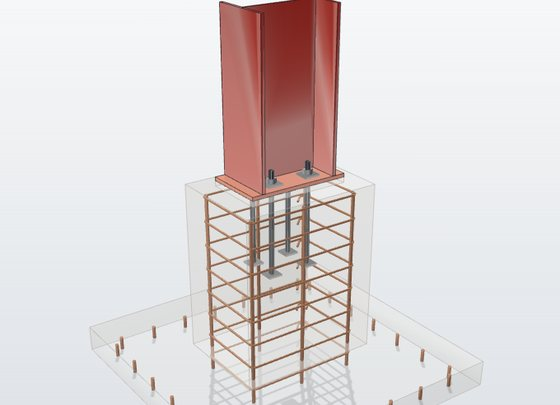
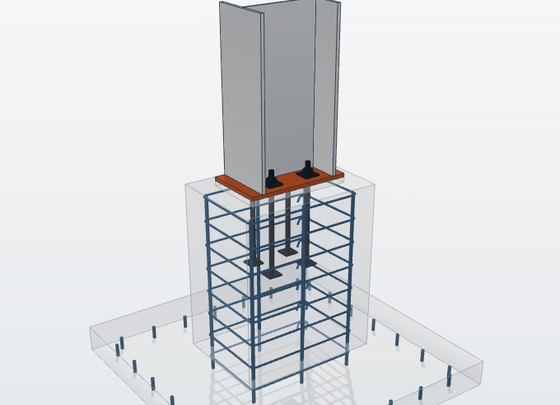
Connection explorer: conceptual style

diff --git a/projects/steel-warehouse.html b/projects/steel-warehouse.html
@@ -48,7 +48,7 @@
 .cv-head h3{margin:0;font-size:1.05rem}
 .cv-x{border:0;background:none;font-size:1.6rem;line-height:1;cursor:pointer;color:var(--ink-2)}
 .cv-body{display:grid;grid-template-columns:1.7fr 1fr;gap:0}
-.cv-stage{position:relative;aspect-ratio:4/3;background:#eceff2;touch-action:none}
+.cv-stage{position:relative;aspect-ratio:4/3;background:#eef0f2;touch-action:none}
 .cv-stage canvas{position:absolute;inset:0;width:100%;height:100%;display:block;cursor:grab}
 .cv-msg{position:absolute;left:12px;bottom:10px;font:500 .76rem "IBM Plex Mono",monospace;color:#4a5866;background:rgba(255,255,255,.85);padding:4px 8px;border-radius:4px}
 .cv-info{padding:16px 18px;font-size:.88rem;overflow:auto}
@@ -126,16 +126,16 @@
       <ul><li>The shear lugs at the side columns now run across the frame, so they bear against the concrete in the direction of the 84 kN frame shear.</li><li>The splice end plates stand 10 mm proud of the flush flange, so the sloped flange is fully cut and welded to the plate.</li><li>The purlin cleats on the two gable frames have 4 bolts instead of 2. Two columns of bolts let the joint resist rotation on its own.</li><li>The pedestal ties continue down through the footing to just above the bottom mesh, holding the starter bars in place.</li></ul>
       <p class="hint">Select a connection to open it in 3D. Drag to rotate, scroll or pinch to zoom.</p>
       <div class="conns" id="conns">
-        <button type="button" class="conn" data-k="knee"><img src="img/conn/knee.jpg?v=2" alt="" width="560" height="405" loading="lazy"><span class="ct">Eave knee</span><span class="cd">Bolted end plate, 12 × M24</span><span class="cr">Max ratio 0.80</span></button>
-        <button type="button" class="conn" data-k="ridge"><img src="img/conn/ridge.jpg?v=2" alt="" width="560" height="405" loading="lazy"><span class="ct">Ridge and column cap</span><span class="cd">Extended end plates, 10 × M30</span><span class="cr">Max ratio 0.68</span></button>
-        <button type="button" class="conn" data-k="splice607"><img src="img/conn/splice607.jpg?v=2" alt="" width="560" height="405" loading="lazy"><span class="ct">Rafter splice at 6.07 m</span><span class="cd">Extended end plates, 8 × M24</span><span class="cr">Max ratio 0.36</span></button>
-        <button type="button" class="conn" data-k="splice1607"><img src="img/conn/splice1607.jpg?v=2" alt="" width="560" height="405" loading="lazy"><span class="ct">Rafter splice at 16.07 m</span><span class="cd">Extended end plates, 8 × M24</span><span class="cr">Max ratio 0.24</span></button>
-        <button type="button" class="conn" data-k="base_side"><img src="img/conn/base_side.jpg?v=2" alt="" width="560" height="405" loading="lazy"><span class="ct">Side column base</span><span class="cd">Shear lug across the frame</span><span class="cr">Max ratio 0.75</span></button>
-        <button type="button" class="conn" data-k="base_central"><img src="img/conn/base_central.jpg?v=2" alt="" width="560" height="405" loading="lazy"><span class="ct">Central column base</span><span class="cd">4 anchor rods, no uplift</span><span class="cr">Max ratio 0.10</span></button>
-        <button type="button" class="conn" data-k="base_gable"><img src="img/conn/base_gable.jpg?v=2" alt="" width="560" height="405" loading="lazy"><span class="ct">Gable column base</span><span class="cd">Shear on the anchor rods</span><span class="cr">Max ratio 0.65</span></button>
-        <button type="button" class="conn" data-k="purlin"><img src="img/conn/purlin.jpg?v=2" alt="" width="560" height="405" loading="lazy"><span class="ct">Purlin cleat, interior</span><span class="cd">Stiffened cleat, 2 × M16</span><span class="cr">Max ratio 0.41</span></button>
-        <button type="button" class="conn" data-k="purlin_gable"><img src="img/conn/purlin_gable.jpg?v=2" alt="" width="560" height="405" loading="lazy"><span class="ct">Purlin cleat, gable end</span><span class="cd">Stiffened cleat, 4 × M16</span><span class="cr">Max ratio 0.39</span></button>
-        <button type="button" class="conn" data-k="bracing"><img src="img/conn/bracing.jpg?v=2" alt="" width="560" height="405" loading="lazy"><span class="ct">Roof bracing</span><span class="cd">10 mm gusset, 2 × M20</span><span class="cr">Max ratio 0.10</span></button>
+        <button type="button" class="conn" data-k="knee"><img src="img/conn/knee.jpg?v=3" alt="" width="560" height="405" loading="lazy"><span class="ct">Eave knee</span><span class="cd">Bolted end plate, 12 × M24</span><span class="cr">Max ratio 0.80</span></button>
+        <button type="button" class="conn" data-k="ridge"><img src="img/conn/ridge.jpg?v=3" alt="" width="560" height="405" loading="lazy"><span class="ct">Ridge and column cap</span><span class="cd">Extended end plates, 10 × M30</span><span class="cr">Max ratio 0.68</span></button>
+        <button type="button" class="conn" data-k="splice607"><img src="img/conn/splice607.jpg?v=3" alt="" width="560" height="405" loading="lazy"><span class="ct">Rafter splice at 6.07 m</span><span class="cd">Extended end plates, 8 × M24</span><span class="cr">Max ratio 0.36</span></button>
+        <button type="button" class="conn" data-k="splice1607"><img src="img/conn/splice1607.jpg?v=3" alt="" width="560" height="405" loading="lazy"><span class="ct">Rafter splice at 16.07 m</span><span class="cd">Extended end plates, 8 × M24</span><span class="cr">Max ratio 0.24</span></button>
+        <button type="button" class="conn" data-k="base_side"><img src="img/conn/base_side.jpg?v=3" alt="" width="560" height="405" loading="lazy"><span class="ct">Side column base</span><span class="cd">Shear lug across the frame</span><span class="cr">Max ratio 0.75</span></button>
+        <button type="button" class="conn" data-k="base_central"><img src="img/conn/base_central.jpg?v=3" alt="" width="560" height="405" loading="lazy"><span class="ct">Central column base</span><span class="cd">4 anchor rods, no uplift</span><span class="cr">Max ratio 0.10</span></button>
+        <button type="button" class="conn" data-k="base_gable"><img src="img/conn/base_gable.jpg?v=3" alt="" width="560" height="405" loading="lazy"><span class="ct">Gable column base</span><span class="cd">Shear on the anchor rods</span><span class="cr">Max ratio 0.65</span></button>
+        <button type="button" class="conn" data-k="purlin"><img src="img/conn/purlin.jpg?v=3" alt="" width="560" height="405" loading="lazy"><span class="ct">Purlin cleat, interior</span><span class="cd">Stiffened cleat, 2 × M16</span><span class="cr">Max ratio 0.41</span></button>
+        <button type="button" class="conn" data-k="purlin_gable"><img src="img/conn/purlin_gable.jpg?v=3" alt="" width="560" height="405" loading="lazy"><span class="ct">Purlin cleat, gable end</span><span class="cd">Stiffened cleat, 4 × M16</span><span class="cr">Max ratio 0.39</span></button>
+        <button type="button" class="conn" data-k="bracing"><img src="img/conn/bracing.jpg?v=3" alt="" width="560" height="405" loading="lazy"><span class="ct">Roof bracing</span><span class="cd">10 mm gusset, 2 × M20</span><span class="cr">Max ratio 0.10</span></button>
       </div>
       <dialog class="cview" id="cview" aria-labelledby="cv-title">
         <div class="cv-head"><h3 id="cv-title"></h3><button type="button" class="cv-x" id="cv-close" aria-label="Close">×</button></div>
@@ -238,25 +238,23 @@ let T=null,R,S,cam,ctl,cur,idx=0,raf=0;
 async function init(){if(T)return;
   const THREE=await import('three');const {OrbitControls}=await import('three/addons/controls/OrbitControls.js');
   const {GLTFLoader}=await import('three/addons/loaders/GLTFLoader.js');const {MeshoptDecoder}=await import('three/addons/libs/meshopt_decoder.module.js');
-  const {RoomEnvironment}=await import('three/addons/environments/RoomEnvironment.js');
   R=new THREE.WebGLRenderer({antialias:true});R.setPixelRatio(Math.min(devicePixelRatio,2));R.outputColorSpace=THREE.SRGBColorSpace;
-  R.toneMapping=THREE.ACESFilmicToneMapping;R.shadowMap.enabled=true;R.shadowMap.type=THREE.PCFSoftShadowMap;stage.prepend(R.domElement);
+  R.shadowMap.enabled=true;R.shadowMap.type=THREE.PCFSoftShadowMap;stage.prepend(R.domElement);
   S=new THREE.Scene();
-  const bg=document.createElement('canvas');bg.width=2;bg.height=256;const bx=bg.getContext('2d'),gr=bx.createLinearGradient(0,0,0,256);gr.addColorStop(0,'#f7f8f9');gr.addColorStop(1,'#dfe3e7');bx.fillStyle=gr;bx.fillRect(0,0,2,256);
+  const bg=document.createElement('canvas');bg.width=2;bg.height=256;const bx=bg.getContext('2d'),gr=bx.createLinearGradient(0,0,0,256);gr.addColorStop(0,'#f6f7f8');gr.addColorStop(1,'#e6e9ec');bx.fillStyle=gr;bx.fillRect(0,0,2,256);
   const bt=new THREE.CanvasTexture(bg);bt.colorSpace=THREE.SRGBColorSpace;S.background=bt;
-  S.environment=new THREE.PMREMGenerator(R).fromScene(new RoomEnvironment(),0.04).texture;
-  const key=new THREE.DirectionalLight(0xffffff,2.2);key.castShadow=true;key.shadow.mapSize.set(2048,2048);key.shadow.radius=6;key.shadow.bias=-0.0005;S.add(key,key.target);
-  S.add(new THREE.HemisphereLight(0xffffff,0xb0b8c0,0.35));
-  const ground=new THREE.Mesh(new THREE.PlaneGeometry(1,1),new THREE.ShadowMaterial({opacity:0.18}));ground.rotation.x=-Math.PI/2;ground.receiveShadow=true;S.add(ground);
+  const key=new THREE.DirectionalLight(0xffffff,1.25);key.castShadow=true;key.shadow.mapSize.set(2048,2048);key.shadow.radius=6;key.shadow.bias=-0.0005;S.add(key,key.target);
+  S.add(new THREE.HemisphereLight(0xffffff,0xc4cad0,1.55));
+  const ground=new THREE.Mesh(new THREE.PlaneGeometry(1,1),new THREE.ShadowMaterial({opacity:0.12}));ground.rotation.x=-Math.PI/2;ground.receiveShadow=true;S.add(ground);
   cam=new THREE.PerspectiveCamera(30,1,0.01,100);ctl=new OrbitControls(cam,R.domElement);ctl.enableDamping=true;ctl.dampingFactor=.08;ctl.autoRotateSpeed=1.2;
   ctl.addEventListener('start',()=>{ctl.autoRotate=false;});
   T={THREE,GLTFLoader,MeshoptDecoder,key,ground};
   new ResizeObserver(size).observe(stage);}
-const STY={frame:{c:0xa63a2b,m:.35,r:.45},plate:{c:0xc9552f,m:.35,r:.45},purlin:{c:0xb9c1c7,m:.75,r:.35},cleat:{c:0xc9ced2,m:.7,r:.38},bracing:{c:0x5a6068,m:.6,r:.45},gusset:{c:0x7b828a,m:.6,r:.45},bolt:{c:0x3a3d42,m:.85,r:.3},concrete:{c:0xcfcac0,m:0,r:.95,o:.28},rebar:{c:0x8b5634,m:.5,r:.6}};
+const STY={frame:{c:0xf2f3f4},plate:{c:0xe0602b},purlin:{c:0xd9dee2},cleat:{c:0xe0602b},bracing:{c:0x9aa6b2},gusset:{c:0xe0602b},bolt:{c:0x1f2a33},concrete:{c:0xffffff,o:.22},rebar:{c:0x1d4e7a}};
 function dress(THREE,root){root.traverse(o=>{if(!o.isMesh)return;let n=o;while(n&&!STY[n.name])n=n.parent;const st=STY[n?n.name:'plate'];
-  o.material=new THREE.MeshStandardMaterial({color:st.c,metalness:st.m,roughness:st.r,envMapIntensity:.9,side:THREE.DoubleSide,transparent:!!st.o,opacity:st.o||1,depthWrite:!st.o,polygonOffset:true,polygonOffsetFactor:1,polygonOffsetUnits:1});
+  o.material=new THREE.MeshLambertMaterial({color:st.c,side:THREE.DoubleSide,transparent:!!st.o,opacity:st.o||1,depthWrite:!st.o,polygonOffset:true,polygonOffsetFactor:1,polygonOffsetUnits:1});
   o.castShadow=!st.o;o.receiveShadow=!st.o;
-  if(n&&n.name!=='rebar'&&n.name!=='bolt')o.add(new THREE.LineSegments(new THREE.EdgesGeometry(o.geometry,28),new THREE.LineBasicMaterial({color:st.o?0x9a958c:0x1c2329,transparent:true,opacity:st.o?.5:.55})));});}
+  if(n&&n.name!=='rebar'&&n.name!=='bolt')o.add(new THREE.LineSegments(new THREE.EdgesGeometry(o.geometry,20),new THREE.LineBasicMaterial({color:st.o?0x8c96a0:0x26313b,transparent:true,opacity:st.o?.6:.85})));});}
 function size(){const w=stage.clientWidth,h=stage.clientHeight;if(!w)return;R.setSize(w,h,false);cam.aspect=w/h;cam.updateProjectionMatrix();}
 const DIR={knee:[1.2,.5,-1.4],ridge:[.6,.5,-1.4],splice607:[.8,.4,-1.4],splice1607:[.8,.4,-1.4],base_side:[1.2,.8,-1.4],base_central:[1,.8,-1.4],base_gable:[1,.8,1.4],purlin:[1,.9,-1.2],purlin_gable:[1,.9,1.2],bracing:[.8,1.4,-1]};
 async function show(i){idx=(i+ORDER.length)%ORDER.length;const k=ORDER[idx],c=C[k];
